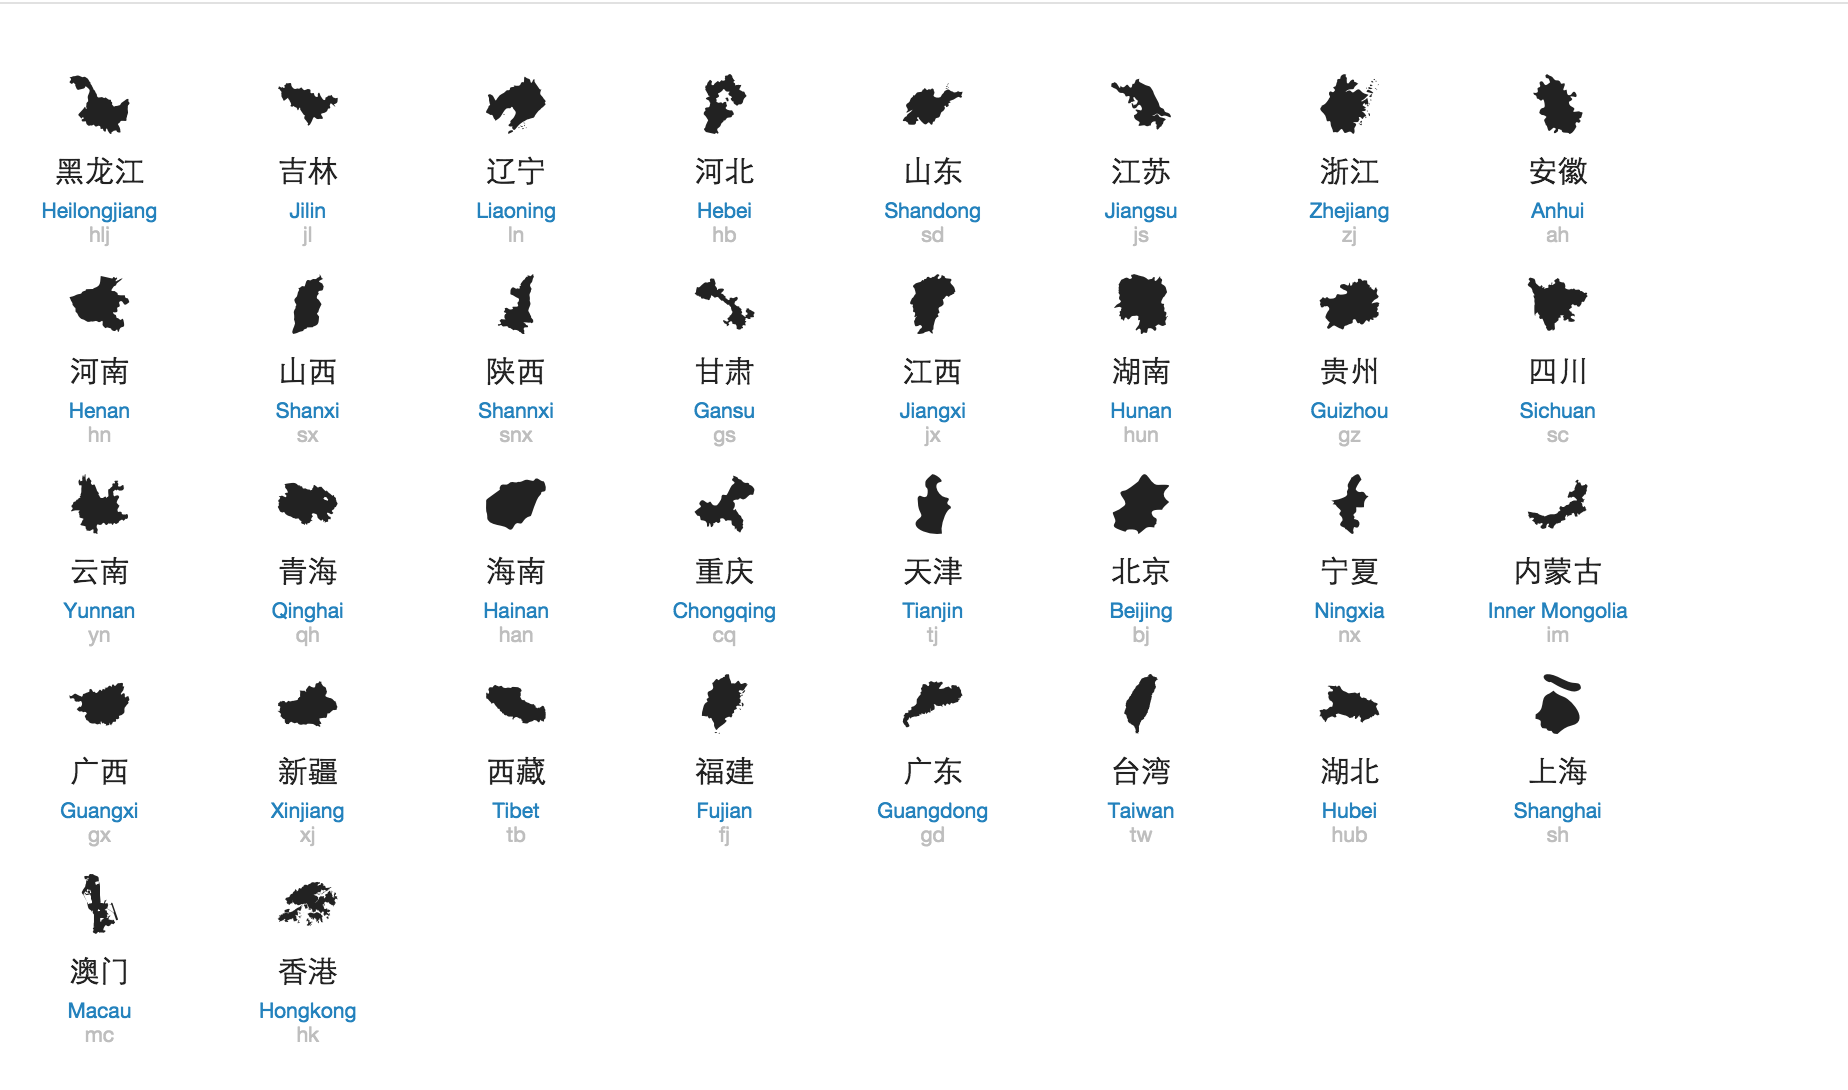
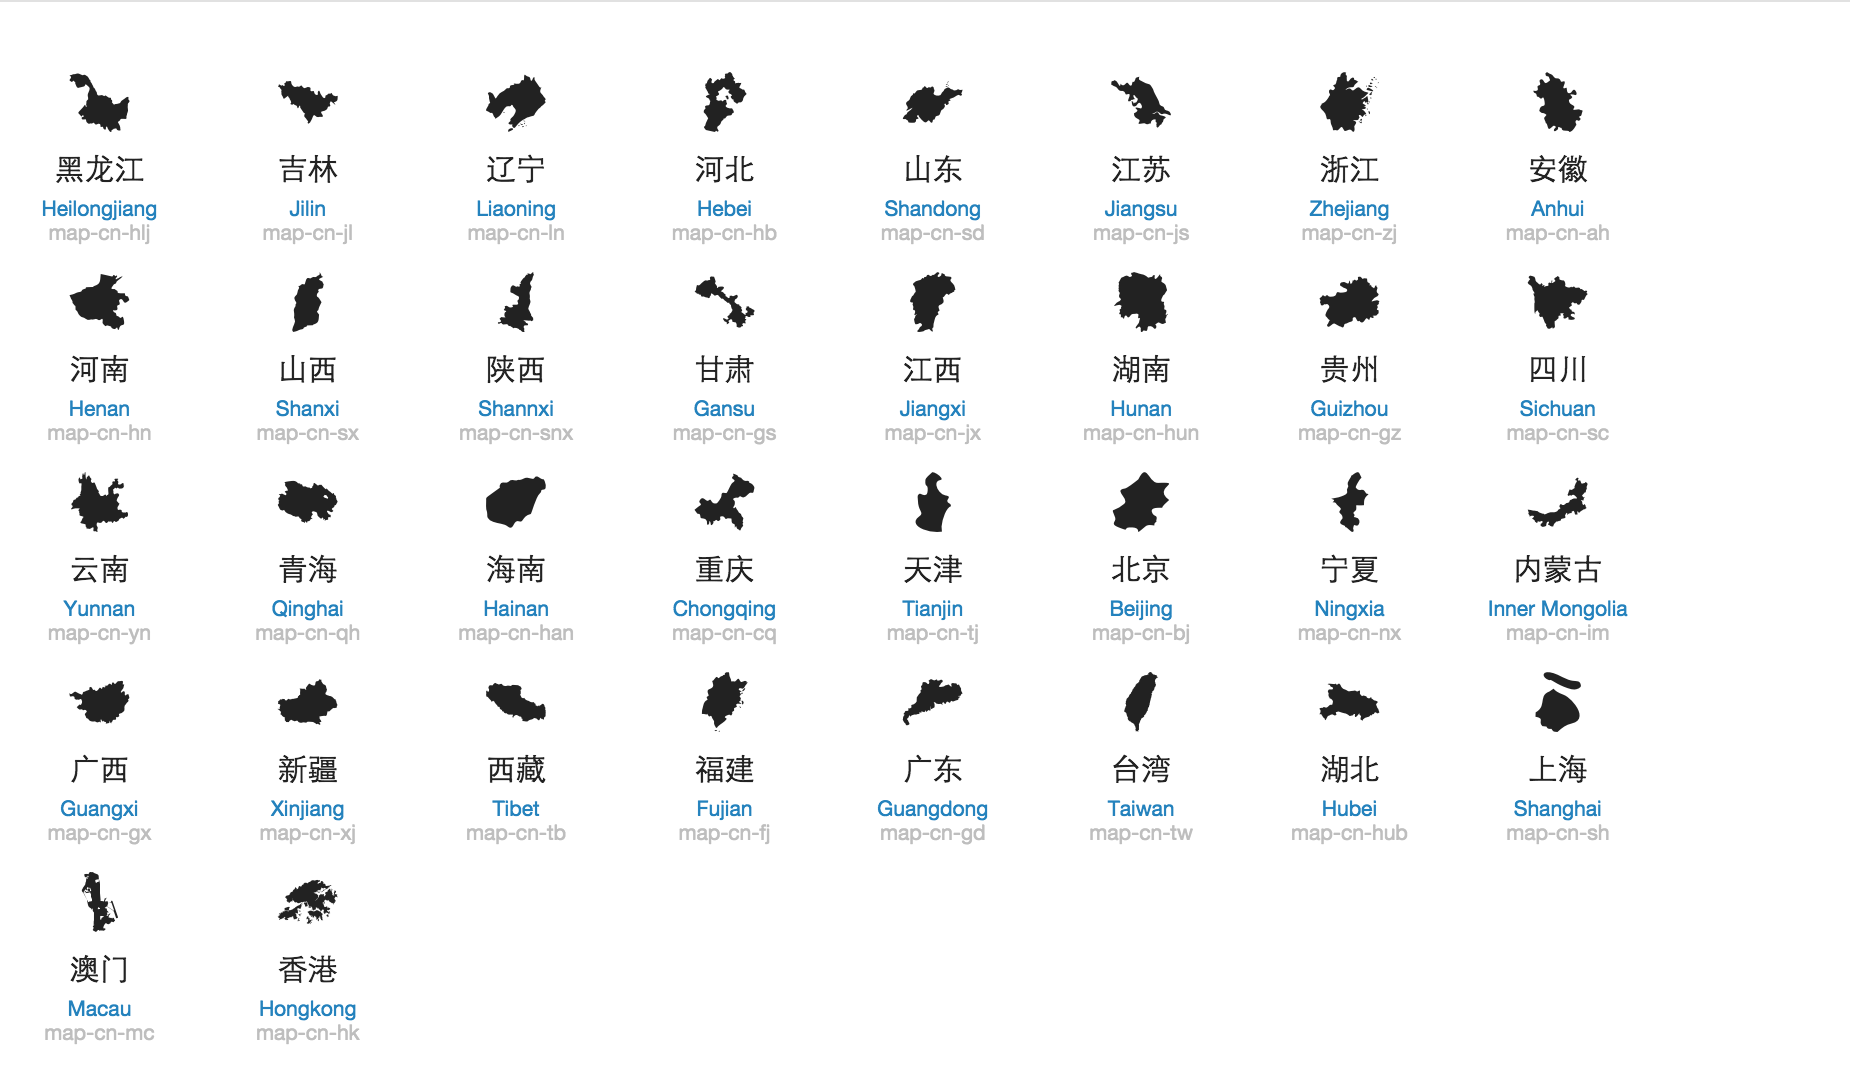
fix mistakes.

diff --git a/index.html b/index.html
@@ -130,205 +130,205 @@
 		  	<div class="icon"><i class="mg map-cn-hlj mg-2x"></i></div>
 		  	<div class="title-zh">黑龙江</div>
 		  	<div class="title-en">Heilongjiang</div>
-		  	<div class="class">hlj</div>
+		  	<div class="class">map-cn-hlj</div>
 	  	</div>
 	  	<div class="thumb">
 		  	<div class="icon"><i class="mg map-cn-jl mg-2x"></i></div>
 		  	<div class="title-zh">吉林</div>
 		  	<div class="title-en">Jilin</div>
-		  	<div class="class">jl</div>
+		  	<div class="class">map-cn-jl</div>
 	  	</div>
 	  	<div class="thumb">
 		  	<div class="icon"><i class="mg map-cn-ln mg-2x"></i></div>
 		  	<div class="title-zh">辽宁</div>
 		  	<div class="title-en">Liaoning</div>
-		  	<div class="class">ln</div>
+		  	<div class="class">map-cn-ln</div>
 	  	</div>
 	  	<div class="thumb">
 		  	<div class="icon"><i class="mg map-cn-hb mg-2x"></i></div>
 		  	<div class="title-zh">河北</div>
 		  	<div class="title-en">Hebei</div>
-		  	<div class="class">hb</div>
+		  	<div class="class">map-cn-hb</div>
 	  	</div>
 	  	<div class="thumb">
 		  	<div class="icon"><i class="mg map-cn-sd mg-2x"></i></div>
 		  	<div class="title-zh">山东</div>
 		  	<div class="title-en">Shandong</div>
-		  	<div class="class">sd</div>
+		  	<div class="class">map-cn-sd</div>
 	  	</div>
 	  	<div class="thumb">
 		  	<div class="icon"><i class="mg map-cn-js mg-2x"></i></div>
 		  	<div class="title-zh">江苏</div>
 		  	<div class="title-en">Jiangsu</div>
-		  	<div class="class">js</div>
+		  	<div class="class">map-cn-js</div>
 	  	</div>
 	  	<div class="thumb">
 		  	<div class="icon"><i class="mg map-cn-zj mg-2x"></i></div>
 		  	<div class="title-zh">浙江</div>
 		  	<div class="title-en">Zhejiang</div>
-		  	<div class="class">zj</div>
+		  	<div class="class">map-cn-zj</div>
 	  	</div>
 	  	<div class="thumb">
 		  	<div class="icon"><i class="mg map-cn-ah mg-2x"></i></div>
 		  	<div class="title-zh">安徽</div>
 		  	<div class="title-en">Anhui</div>
-		  	<div class="class">ah</div>
+		  	<div class="class">map-cn-ah</div>
 	  	</div>
 	  	<div class="thumb">
 		  	<div class="icon"><i class="mg map-cn-hn mg-2x"></i></div>
 		  	<div class="title-zh">河南</div>
 		  	<div class="title-en">Henan</div>
-		  	<div class="class">hn</div>
+		  	<div class="class">map-cn-hn</div>
 	  	</div>
 	  	<div class="thumb">
 		  	<div class="icon"><i class="mg map-cn-sx mg-2x"></i></div>
 		  	<div class="title-zh">山西</div>
 		  	<div class="title-en">Shanxi</div>
-		  	<div class="class">sx</div>
+		  	<div class="class">map-cn-sx</div>
 	  	</div>
 	  	<div class="thumb">
 		  	<div class="icon"><i class="mg map-cn-snx mg-2x"></i></div>
 		  	<div class="title-zh">陕西</div>
 		  	<div class="title-en">Shannxi</div>
-		  	<div class="class">snx</div>
+		  	<div class="class">map-cn-snx</div>
 	  	</div>
 	  	<div class="thumb">
 		  	<div class="icon"><i class="mg map-cn-gs mg-2x"></i></div>
 		  	<div class="title-zh">甘肃</div>
 		  	<div class="title-en">Gansu</div>
-		  	<div class="class">gs</div>
+		  	<div class="class">map-cn-gs</div>
 	  	</div>
 	   	<div class="thumb">
 		  	<div class="icon"><i class="mg map-cn-jx mg-2x"></i></div>
 		  	<div class="title-zh">江西</div>
 		  	<div class="title-en">Jiangxi</div>
-		  	<div class="class">jx</div>
+		  	<div class="class">map-cn-jx</div>
 	  	</div>
 	  	<div class="thumb">
 		  	<div class="icon"><i class="mg map-cn-hun mg-2x"></i></div>
 		  	<div class="title-zh">湖南</div>
 		  	<div class="title-en">Hunan</div>
-		  	<div class="class">hun</div>
+		  	<div class="class">map-cn-hun</div>
 	  	</div>
 	  	<div class="thumb">
 		  	<div class="icon"><i class="mg map-cn-gz mg-2x"></i></div>
 		  	<div class="title-zh">贵州</div>
 		  	<div class="title-en">Guizhou</div>
-		  	<div class="class">gz</div>
+		  	<div class="class">map-cn-gz</div>
 	  	</div>
 	  	<div class="thumb">
 		  	<div class="icon"><i class="mg map-cn-sc mg-2x"></i></div>
 		  	<div class="title-zh">四川</div>
 		  	<div class="title-en">Sichuan</div>
-		  	<div class="class">sc</div>
+		  	<div class="class">map-cn-sc</div>
 	  	</div>
 	  	<div class="thumb">
 		  	<div class="icon"><i class="mg map-cn-yn mg-2x"></i></div>
 		  	<div class="title-zh">云南</div>
 		  	<div class="title-en">Yunnan</div>
-		  	<div class="class">yn</div>
+		  	<div class="class">map-cn-yn</div>
 	  	</div>
 	  	<div class="thumb">
 		  	<div class="icon"><i class="mg map-cn-qh mg-2x"></i></div>
 		  	<div class="title-zh">青海</div>
 		  	<div class="title-en">Qinghai</div>
-		  	<div class="class">qh</div>
+		  	<div class="class">map-cn-qh</div>
 	  	</div>
 	  	<div class="thumb">
 		  	<div class="icon"><i class="mg map-cn-han mg-2x"></i></div>
 		  	<div class="title-zh">海南</div>
 		  	<div class="title-en">Hainan</div>
-		  	<div class="class">han</div>
+		  	<div class="class">map-cn-han</div>
 	  	</div>
 	  	<div class="thumb">
 		  	<div class="icon"><i class="mg map-cn-cq mg-2x"></i></div>
 		  	<div class="title-zh">重庆</div>
 		  	<div class="title-en">Chongqing</div>
-		  	<div class="class">cq</div>
+		  	<div class="class">map-cn-cq</div>
 	  	</div>
 	  	<div class="thumb">
 		  	<div class="icon"><i class="mg map-cn-tj mg-2x"></i></div>
 		  	<div class="title-zh">天津</div>
 		  	<div class="title-en">Tianjin</div>
-		  	<div class="class">tj</div>
+		  	<div class="class">map-cn-tj</div>
 	  	</div>
 	  	<div class="thumb">
 		  	<div class="icon"><i class="mg map-cn-bj mg-2x"></i></div>
 		  	<div class="title-zh">北京</div>
 		  	<div class="title-en">Beijing</div>
-		  	<div class="class">bj</div>
+		  	<div class="class">map-cn-bj</div>
 	  	</div>
 	  	<div class="thumb">
 		  	<div class="icon"><i class="mg map-cn-nx mg-2x"></i></div>
 		  	<div class="title-zh">宁夏</div>
 		  	<div class="title-en">Ningxia</div>
-		  	<div class="class">nx</div>
+		  	<div class="class">map-cn-nx</div>
 	  	</div>
 	  	<div class="thumb">
 		  	<div class="icon"><i class="mg map-cn-im mg-2x"></i></div>
 		  	<div class="title-zh">内蒙古</div>
 		  	<div class="title-en">Inner Mongolia</div>
-		  	<div class="class">im</div>
+		  	<div class="class">map-cn-im</div>
 	  	</div>
 	  	<div class="thumb">
 		  	<div class="icon"><i class="mg map-cn-gx mg-2x"></i></div>
 		  	<div class="title-zh">广西</div>
 		  	<div class="title-en">Guangxi</div>
-		  	<div class="class">gx</div>
+		  	<div class="class">map-cn-gx</div>
 	  	</div>
 	  	<div class="thumb">
 		  	<div class="icon"><i class="mg map-cn-xj mg-2x"></i></div>
 		  	<div class="title-zh">新疆</div>
 		  	<div class="title-en">Xinjiang</div>
-		  	<div class="class">xj</div>
+		  	<div class="class">map-cn-xj</div>
 	  	</div>
 	  	<div class="thumb">
 		  	<div class="icon"><i class="mg map-cn-tb mg-2x"></i></div>
 		  	<div class="title-zh">西藏</div>
 		  	<div class="title-en">Tibet</div>
-		  	<div class="class">tb</div>
+		  	<div class="class">map-cn-tb</div>
 	  	</div>
 	  	<div class="thumb">
 		  	<div class="icon"><i class="mg map-cn-fj mg-2x"></i></div>
 		  	<div class="title-zh">福建</div>
 		  	<div class="title-en">Fujian</div>
-		  	<div class="class">fj</div>
+		  	<div class="class">map-cn-fj</div>
 	  	</div>
 	  	<div class="thumb">
 		  	<div class="icon"><i class="mg map-cn-gd mg-2x"></i></div>
 		  	<div class="title-zh">广东</div>
 		  	<div class="title-en">Guangdong</div>
-		  	<div class="class">gd</div>
+		  	<div class="class">map-cn-gd</div>
 	  	</div>
 	  	<div class="thumb">
 		  	<div class="icon"><i class="mg map-cn-tw mg-2x"></i></div>
 		  	<div class="title-zh">台湾</div>
 		  	<div class="title-en">Taiwan</div>
-		  	<div class="class">tw</div>
+		  	<div class="class">map-cn-tw</div>
 	  	</div>
 	  	<div class="thumb">
 		  	<div class="icon"><i class="mg map-cn-hub mg-2x"></i></div>
 		  	<div class="title-zh">湖北</div>
 		  	<div class="title-en">Hubei</div>
-		  	<div class="class">hub</div>
+		  	<div class="class">map-cn-hub</div>
 	  	</div>
 	  	<div class="thumb">
 		  	<div class="icon"><i class="mg map-cn-sh mg-2x"></i></div>
 		  	<div class="title-zh">上海</div>
 		  	<div class="title-en">Shanghai</div>
-		  	<div class="class">sh</div>
+		  	<div class="class">map-cn-sh</div>
 	  	</div>
 	  	<div class="thumb">
 		  	<div class="icon"><i class="mg map-cn-mc mg-2x"></i></div>
 		  	<div class="title-zh">澳门</div>
 		  	<div class="title-en">Macau</div>
-		  	<div class="class">mc</div>
+		  	<div class="class">map-cn-mc</div>
 	  	</div>
 	   	<div class="thumb">
 		  	<div class="icon"><i class="mg map-cn-hk mg-2x"></i></div>
 		  	<div class="title-zh">香港</div>
 		  	<div class="title-en">Hongkong</div>
-		  	<div class="class">hk</div>
+		  	<div class="class">map-cn-hk</div>
 	  	</div>
   	</div>
   	</div>
